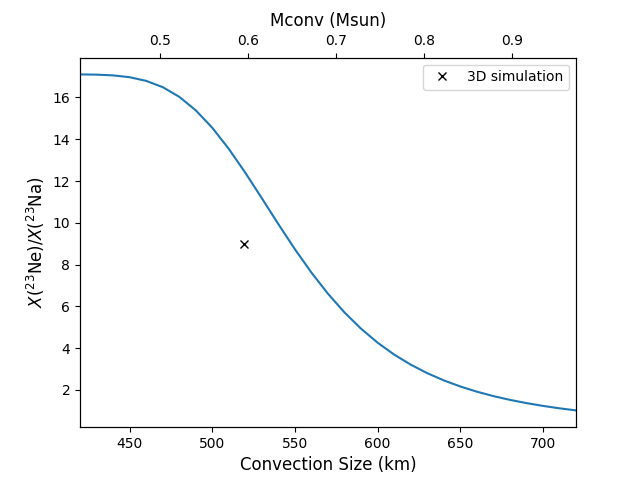
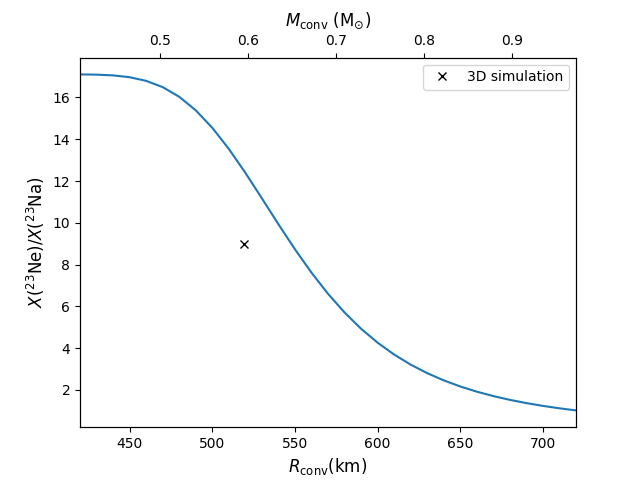
update plot labels

Changed region(s): [[0.375, 0.9375, 0.6562, 1.0], [0.4062, 0.0312, 0.5938, 0.0625]]

diff --git a/calc_optimal_ratio_v_Rconv.py b/calc_optimal_ratio_v_Rconv.py
@@ -122,7 +122,7 @@ def test_ratio(in_ratio, total_Urca, inputs, outside_X=None):
 
 
 def find_optimal_ratio(Rconv, const_variables, urca_total, guess=1.,
-                       min_ratio=0.1, max_ratio=1e5):
+                       min_ratio=0.01, max_ratio=1e5):
 
     sol = minimize(test_ratio, guess, method='Powell',
                    bounds=[(min_ratio, max_ratio)],
@@ -143,7 +143,7 @@ def plot_results(Rconv, Mconv, ratio,
     # do main plot w/ Rconv
     ax.plot(Rconv, ratio)
 
-    ax.set_xlabel("Convection Size (km)", fontsize='large')
+    ax.set_xlabel("$R_{\\mathrm{conv}}$($\\mathrm{km}$)", fontsize='large')
     ax.set_ylabel(ylabel, fontsize='large')
 
     bot, top = ax.get_ylim()
@@ -157,7 +157,7 @@ def plot_results(Rconv, Mconv, ratio,
     axM.plot(Mconv, ratio)
     axM.cla()
     axM.set_xlim(Mconv[0], Mconv[-1])
-    axM.set_title("Mconv (Msun)", fontsize='large')
+    axM.set_title("$M_{\\mathrm{conv}}$ ($\\mathrm{M}_{\\odot}$)", fontsize='large')
     return fig, ax
 
 
@@ -182,13 +182,11 @@ if __name__ == "__main__":
         const_inputs = calc_const_variables(rad_arr, rho_arr, T_arr, Rconv)
 
         # this is quick mix w/o source
-        init_guess = min(40., const_inputs[3]/const_inputs[2])
+        init_guess = 40. #min(40., const_inputs[3]/const_inputs[2])
 
         # run the minimizing
         curr_ratio = find_optimal_ratio(Rconv, const_inputs, urca_tot,
-                                        guess=init_guess,
-                                        min_ratio=1.,
-                                        max_ratio=10.*init_guess)
+                                        guess=init_guess)
 
         # est_ratio = calc_new_ratio(curr_ratio, urca_tot, const_inputs)
 

diff --git a/calc_nu_loss.py b/calc_nu_loss.py
@@ -45,14 +45,14 @@ def plot_nu_losses(rad_arr, Rconv_arr, nu_loss_arr, ratio_arr, sample=4):
 
     sim_nuloss = np.load("nuloss.npy")
     sim_rad = np.load("radius.npy")/1e5
-    ax.plot(sim_rad, sim_nuloss/(sim_rad[1] - sim_rad[0]), 'k--', label='sim avg. ratio = ~9')
+    ax.plot(sim_rad, sim_nuloss/(sim_rad[1] - sim_rad[0]), 'k--', label='3D Sim. $\\mathrm{ratio} \\sim 9$}')
 
     ax.set_xlim(left, right)
 
     # set plot params
     ax.legend(ncols=2)
     ax.set_xlabel("Stellar Radius (km)")
-    ax.set_ylabel('Total Neutrino Losses per radial bin (erg/s/km)')
+    ax.set_ylabel('$\\mathrm{\\dot{E}}_{\\nu_e}(r)$ per radial bin (erg/s/km)')
     #ax.set_facecolor('beige')
 
     return fig, ax
@@ -103,9 +103,9 @@ if __name__ == "__main__":
 
     fig, ax = plot_results(Rconv_arr, Mconv_arr,
                            sum_nu_arr,
-                           ylabel='Total Neutrino Losses (erg/s)')
+                           ylabel='$\\dot{E}_{\\nu_e}$(erg/s)')
     ax.plot(519, 4.18e42, 'x', color='k', label='3D simulation')
-    ax.hlines(3.32e43, *ax.get_xlim(), colors='tab:orange', label='3D simulation total $\\dot{E}_\\mathrm{nuc}$',zorder=-1)
+    ax.hlines(3.32e43, *ax.get_xlim(), colors='tab:orange', label='3D Simulation $\\dot{E}_\\mathrm{nuc}$',zorder=-1)
     ax.legend()
 
     fig.savefig("figures/nuloss_vs_rconv.png")
